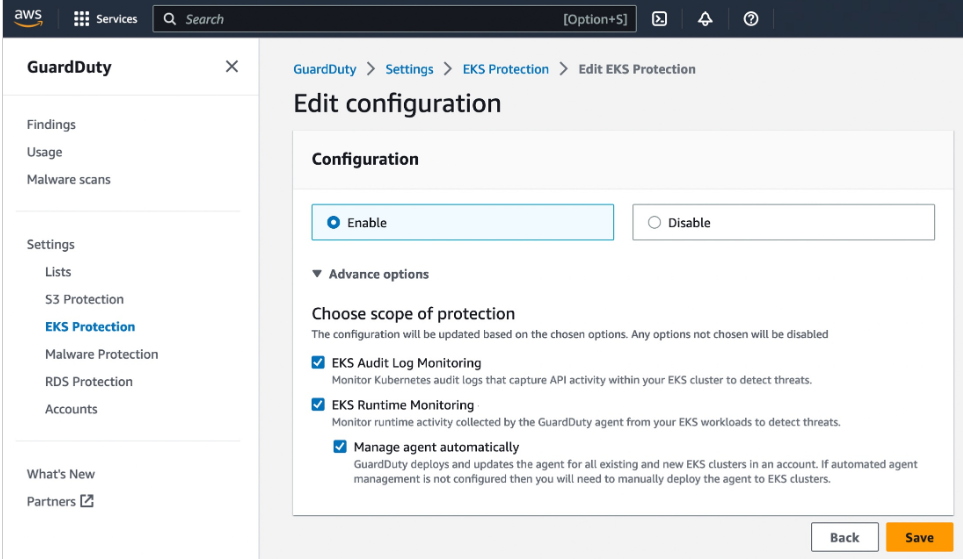
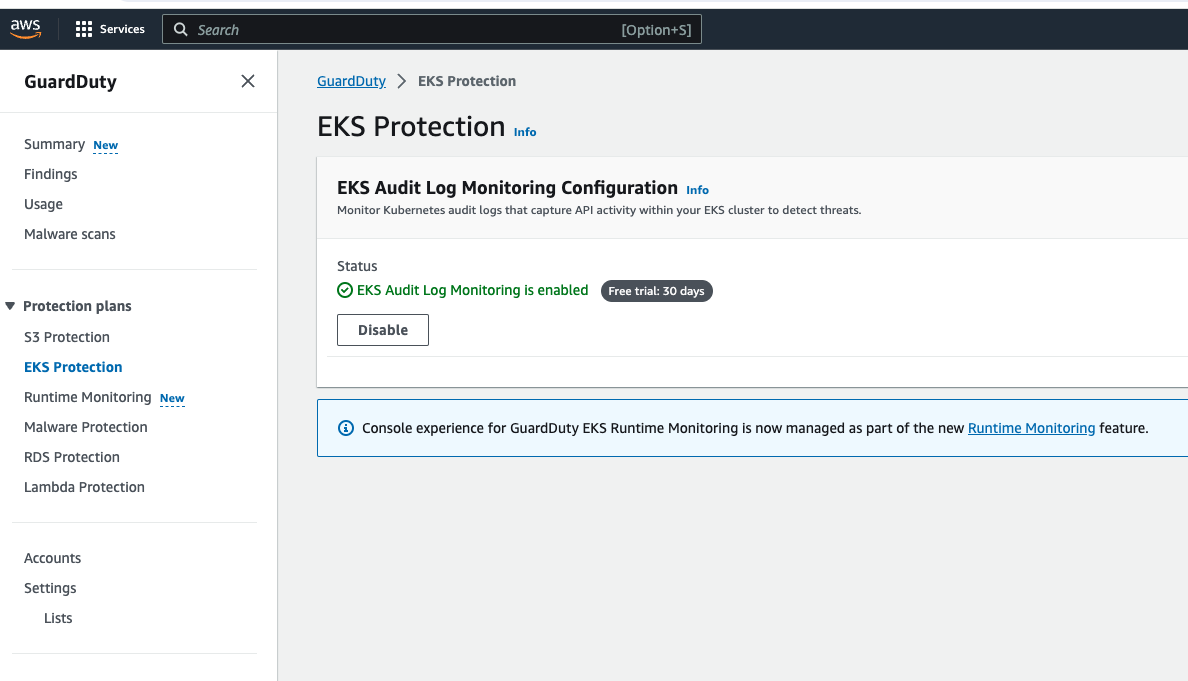
EKS protection

diff --git a/ReadMe.MD b/ReadMe.MD
@@ -22,10 +22,10 @@
 
 - GuardDuty launched Amazon EKS protection to monitor control plane activity by analyzing Kubernetes audit logs from existing and new EKS clusters in your accounts. 
 
-- Configure EKS Runtime Monitoring in GuardDuty (enable EKS Runtime Monitoring)
+- Configure EKS Protection in GuardDuty:
   - ![EKS Protection](eks-protection.png)
-  - Once you enable EKS Runtime Monitoring, GuardDuty can start monitoring and analyzing the runtime-activity events for all the existing and new EKS clusters for your accounts.
-
+  - Once you enable EKS Audit Log Monitoring, GuardDuty starts monitoring Kubernetes audit logs that capture API activity within your EKS cluster to detect threats.
+  - To enable EKS Runtime Monitoring use the "Runtime Monitoring" section.
 
 ### AWS GuardDuty with Terraform?
 
